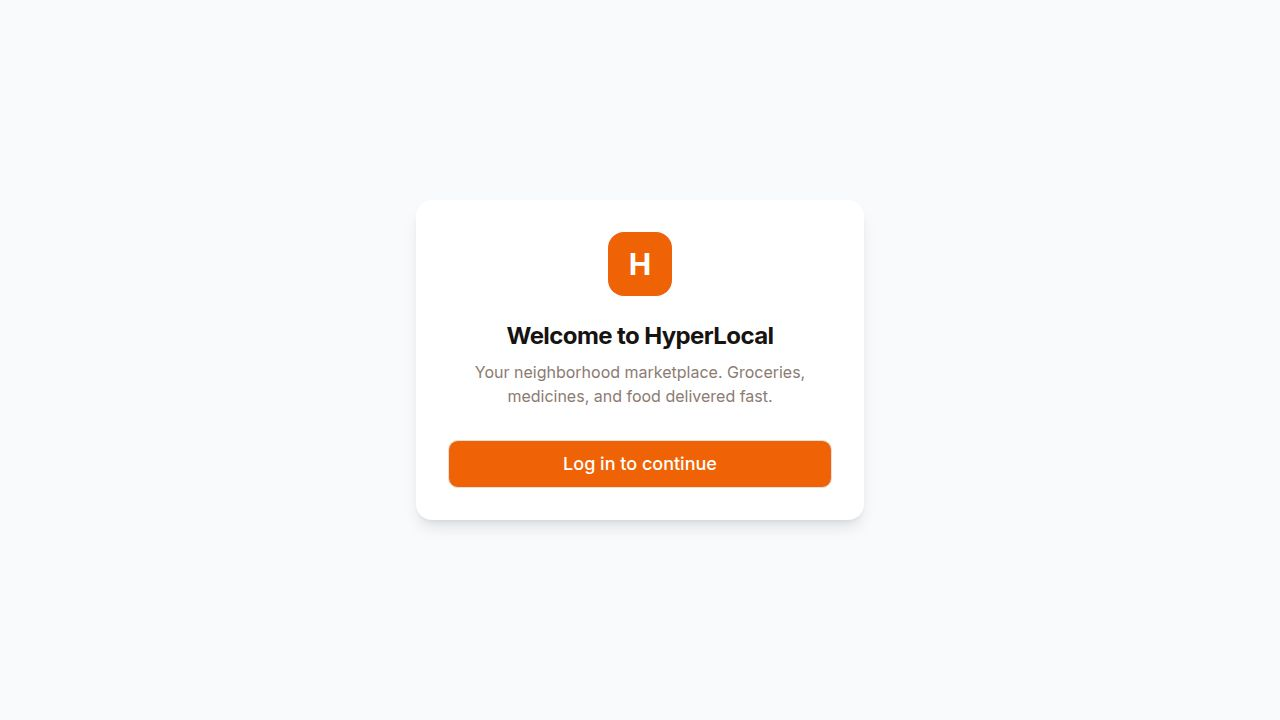
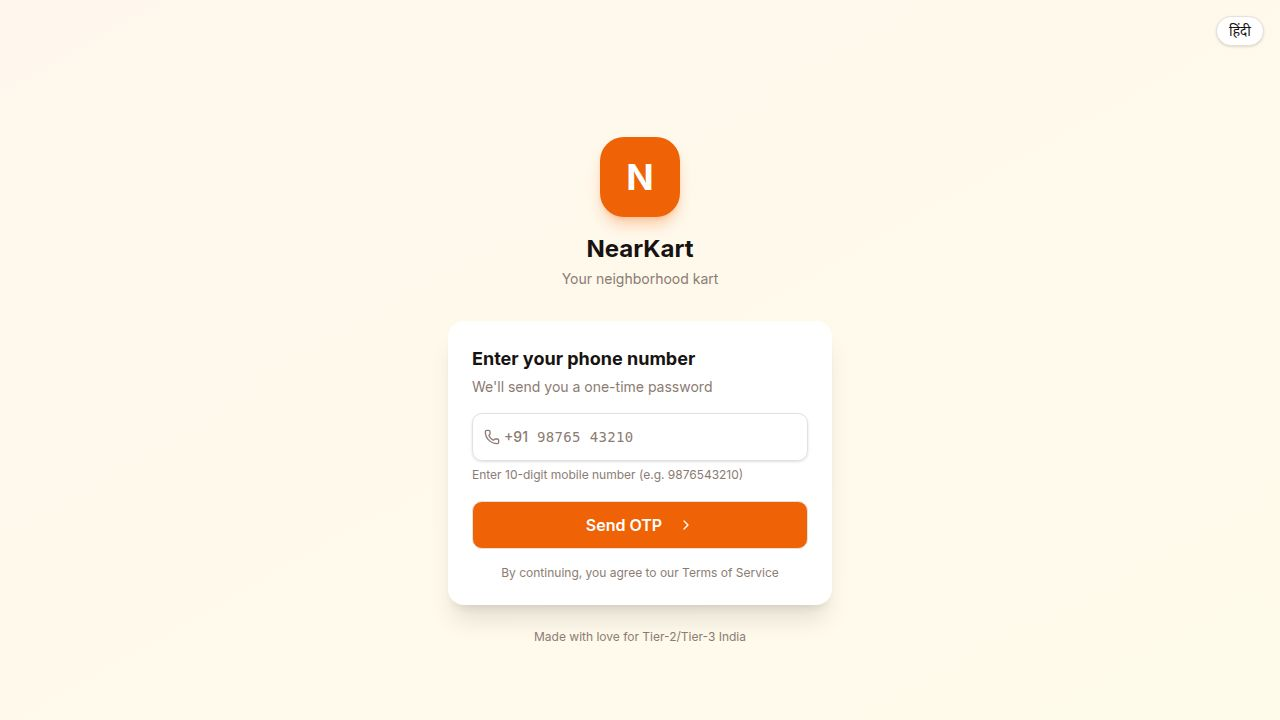
Fix category selection dropdown by seeding data and adjusting component display
Remove height constraint on Select component's viewport to ensure full dropdown content is visible.

Replit-Commit-Author: Agent
Replit-Commit-Session-Id: fa029d1c-be7f-4d6e-9239-c5fe73766f1c
Replit-Commit-Checkpoint-Type: full_checkpoint
Replit-Commit-Event-Id: f922a909-ca79-4620-94fa-623f92990c78
Replit-Commit-Screenshot-Url: https://storage.googleapis.com/screenshot-production-us-central1/dedc1b99-6d6f-49b9-8644-dbccbd58fd9a/fa029d1c-be7f-4d6e-9239-c5fe73766f1c/wXwPfj1
Replit-Helium-Checkpoint-Created: true

diff --git a/artifacts/hyperlocal-app/src/components/ui/select.tsx b/artifacts/hyperlocal-app/src/components/ui/select.tsx
@@ -88,7 +88,7 @@ const SelectContent = React.forwardRef<
         className={cn(
           "p-1",
           position === "popper" &&
-            "h-[var(--radix-select-trigger-height)] w-full min-w-[var(--radix-select-trigger-width)]"
+            "w-full min-w-[var(--radix-select-trigger-width)]"
         )}
       >
         {children}